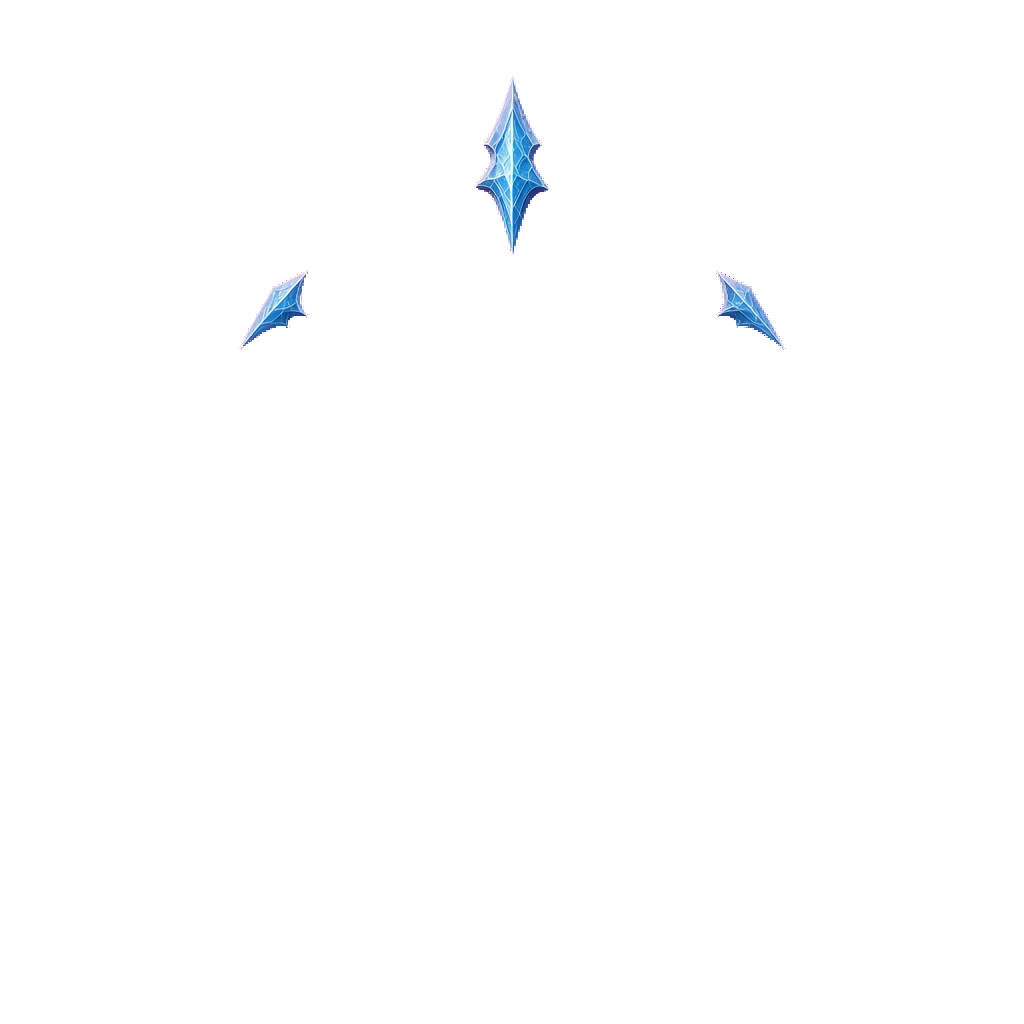
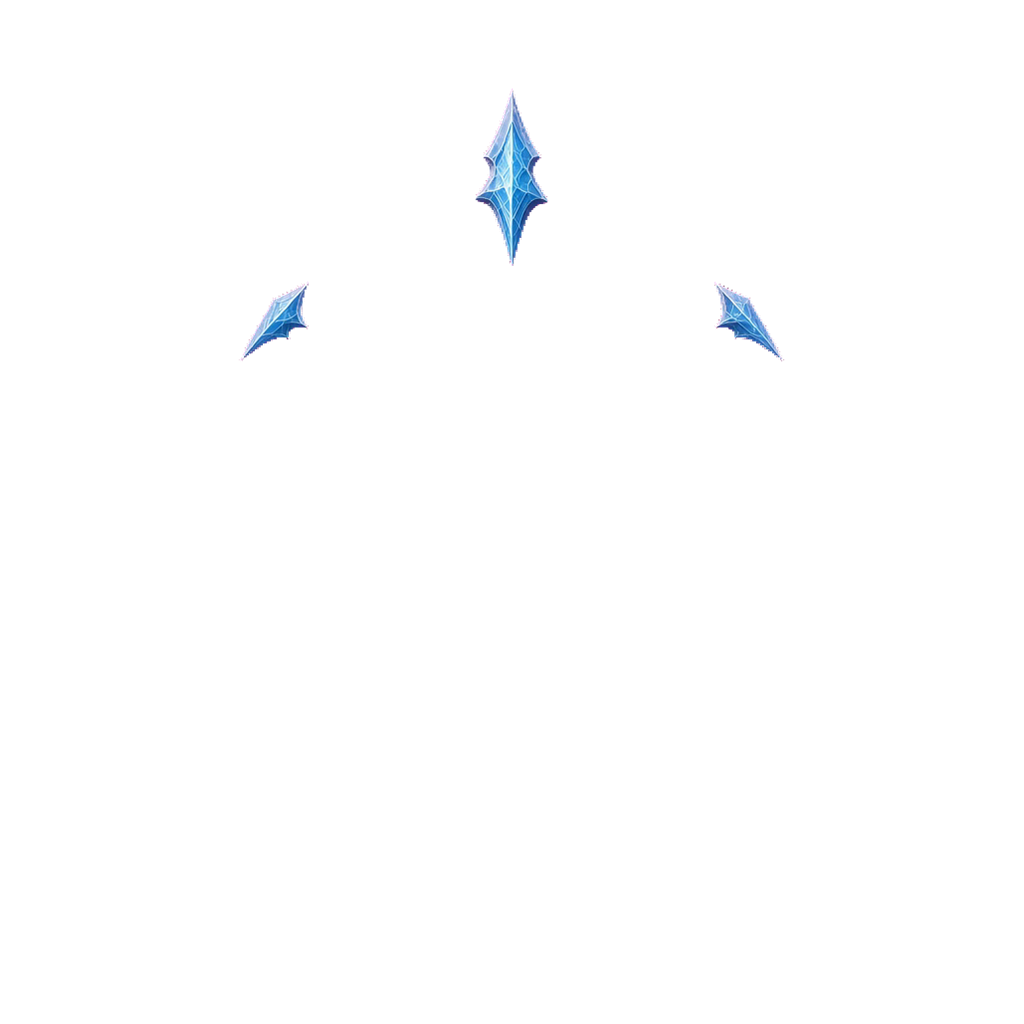
1.0.28

Changed region(s): [[0.4688, 0.0938, 0.5312, 0.25], [0.6875, 0.25, 0.7812, 0.3438], [0.2188, 0.25, 0.3125, 0.3438]]

diff --git a/app.js b/app.js
@@ -1,5 +1,5 @@
 const STORAGE_KEY = "poe2-exile-ledger-v1";
-const APP_VERSION = "1.0.27";
+const APP_VERSION = "1.0.28";
 const FEEDBACK_ISSUE_URL = "https://github.com/Shawn25678/SSEv1/issues/new";
 
 const FILTERS = [
@@ -670,11 +670,11 @@ function bossRankProgress(kills = totalBossKills()) {
 
 /** Elemental living ranks — ice: metal ring → crystallizing ring → crack → Absolute break later. */
 const RANK_ELEMENTAL = {
-  crystalline: { element: "ice", art: "art/rank-elemental/crystalline-egg.png?v=1", power: 1 },
-  prismatic: { element: "ice", art: "art/rank-elemental/prismatic-hatch.png?v=5", power: 1.35 },
-  refracted: { element: "ice", art: "art/rank-elemental/refracted-free.png?v=8", power: 1.65 },
-  lucent: { element: "ice", art: "art/rank-elemental/lucent-ice.png?v=1", power: 1.7 },
-  spirecrystal: { element: "ice", art: "art/rank-elemental/spirecrystal.png?v=4", power: 1.85 },
+  crystalline: { element: "ice", art: "art/rank-elemental/crystalline-egg.png?v=2", power: 1 },
+  prismatic: { element: "ice", art: "art/rank-elemental/prismatic-hatch.png?v=6", power: 1.35 },
+  refracted: { element: "ice", art: "art/rank-elemental/refracted-free.png?v=9", power: 1.65 },
+  lucent: { element: "ice", art: "art/rank-elemental/lucent-ice.png?v=2", power: 1.7 },
+  spirecrystal: { element: "ice", art: "art/rank-elemental/spirecrystal.png?v=5", power: 1.85 },
 };
 
 function rankIconHtml(rankId, className = "rank-icon", alt = "", tier = null) {
@@ -778,9 +778,9 @@ function mountRankLiveIce(stage, canvas, baseImg, power = 1, rankId = "") {
   // One debris sprite + smooth float (no multi-frame swap — those looked bad)
   const debrisSrc =
     String(rankId) === "prismatic"
-      ? "art/rank-elemental/anim/prism-debris.png?v=2"
+      ? "art/rank-elemental/anim/prism-debris.png?v=3"
       : String(rankId) === "refracted"
-        ? "art/rank-elemental/anim/refract-debris.png?v=4"
+        ? "art/rank-elemental/anim/refract-debris.png?v=5"
         : null;
   const debrisImg = debrisSrc
     ? (() => {
